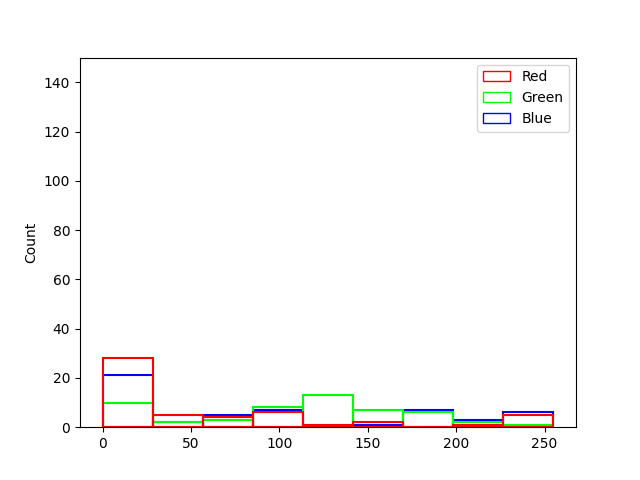
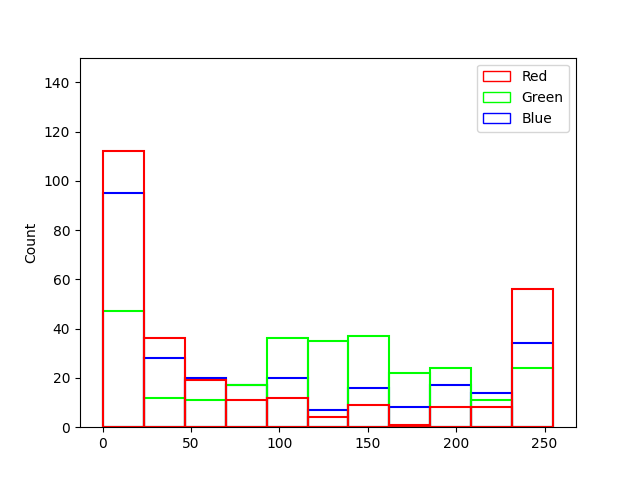
RQ4 scripts and plots

diff --git a/scripts/RQ4/colortable.py b/scripts/RQ4/colortable.py
@@ -1,0 +1,51 @@
+import plotly.graph_objects as go
+from plotly.colors import n_colors
+import numpy as nps
+import sqlite3
+import pandas as pd
+
+db = "./db/{}/crawl-data-dark-patterns.sqlite".format("the_netherlands")
+conn = sqlite3.connect(db)
+
+query_consent = "select * from dark_patterns where allow_height < 100 and allow_height != 0 and allow_text != '' and " \
+                "length(allow_text) < 30 "
+
+query_reject = "select * from dark_patterns where reject_text != '' and length(reject_text) < 30 and reject_text != " \
+               "'OK' "
+
+df_consent = pd.read_sql_query(
+    query_consent,
+    conn
+)
+
+df_reject = pd.read_sql_query(
+    query_reject,
+    conn
+)
+
+consent = []
+reject = []
+id = []
+
+for index, item in df_reject.iterrows():
+    if item.allow_exists == 1 and (item.allow_rgb != 'rgba(0, 0, 0, 0)' and item.allow_rgb != 'rgb(0, 0, 0)' and item.allow_rgb != 'rgb(255, 255, 255)' and item.reject_rgb != 'rgba(0, 0, 0, 0)' and item.reject_rgb != 'rgb(0, 0, 0)' and item.reject_rgb != 'rgb(255, 255, 255)'):
+        print("allowRGB: {} - rejectRGB: {}".format(item.allow_rgb, item.reject_rgb))
+        id.append(item.visit_id)
+        consent.append(item.allow_rgb)
+        reject.append(item.reject_rgb)
+
+fig = go.Figure(data=[go.Table(
+    header=dict(
+        values=['<b>ID</b>', '<b>Consent</b>', '<b>Reject</b>'],
+        line_color='white', fill_color='white',
+        align='center', font=dict(color='black', size=12)
+    ),
+    cells=dict(
+        values=[id, consent, reject],
+        line_color=['rgb(255,255,255)', consent, reject],
+        fill_color=['rgb(0,0,0)', consent, reject],
+        align='center', font=dict(color='black', size=11)
+    ))
+])
+
+fig.show()

diff --git a/scripts/RQ4/colormap.py b/scripts/RQ4/colormap.py
@@ -9,7 +9,10 @@ outDir = "./plots/"
 
 
 def color_map(country, reject=False):
-    db = "./db/{}/crawl-data-dp.sqlite".format(country)
+    if country == "denmark":
+        return
+
+    db = "./db/{}/crawl-data-dark-patterns.sqlite".format(country)
     conn = sqlite3.connect(db)
 
     if not reject:
@@ -52,6 +55,9 @@ def color_map(country, reject=False):
     colors = ["#FF0000", "#00FF00", "#0000FF"]
     rgb_palette = sns.set_palette(sns.color_palette(colors))
 
+    if len(r_values) == 0 and len(g_values) == 0 and len(b_values) == 0:
+        return
+
     sns.histplot(data={"Red": r_values, "Green": g_values, "Blue": b_values}, palette=rgb_palette, fill=False,
                  multiple="stack")
     plt.ylim(0, 150 if not reject else 70)
@@ -59,10 +65,4 @@ def color_map(country, reject=False):
     plt.clf()
 
 
-color_map("the_netherlands")
-color_map("belgium")
-color_map("france")
-
-color_map("the_netherlands", True)
-color_map("belgium", True)
-color_map("france", True)
+color_map("poland", True)

diff --git a/main.py b/main.py
@@ -2,6 +2,7 @@ from scripts.RQ1.cmp_usage import cmp_usage
 from scripts.RQ2.cookie_dialog import cookie_dialog
 from scripts.RQ3.bootstrap import bootstrap_sampling_amount_of_cookies_means
 from scripts.RQ3.number_of_cookies_ecdf import number_of_cookies_ecdf
+from scripts.RQ4.colormap import color_map
 
 import os
 
@@ -42,8 +43,10 @@ def run():
         if not os.path.exists('./plots/{}'.format(country)):
             os.makedirs('./plots/{}'.format(country))
 
+        print(country)
+
         # RQ1
-        cmp_usage(country)
+        # cmp_usage(country)
         # cmp_count = cmp_usage(country)
         # print("{}: {}".format(country, cmp_count))
         # cmp_count_total += cmp_count
@@ -54,6 +57,9 @@ def run():
         # RQ3
         # number_of_cookies_ecdf(country)
         # bootstrap_sampling_amount_of_cookies_means(country)
+
+        # RQ4
+        color_map(country, True)
 
     # print(str(cmp_count_total))
     # print(str(cmp_count_total / 30))

diff --git a/scripts/RQ4/width_height_scatterplot.py b/scripts/RQ4/width_height_scatterplot.py
@@ -1,0 +1,30 @@
+import pandas as pd
+import matplotlib.pyplot as plt
+import sqlite3
+
+db = "./db/{}/crawl-data-dark-patterns.sqlite".format("the_netherlands")
+conn = sqlite3.connect(db)
+
+query_consent = "select * from dark_patterns where allow_height < 100 and allow_height != 0 and allow_text != '' and " \
+                "length(allow_text) < 30 "
+
+query_reject = "select * from dark_patterns where reject_text != '' and length(reject_text) < 30 and reject_text != " \
+               "'OK' "
+
+df_consent = pd.read_sql_query(
+    query_consent,
+    conn
+)
+
+df_reject = pd.read_sql_query(
+    query_reject,
+    conn
+)
+
+fig = plt.figure()
+ax1 = fig.add_subplot(111)
+
+ax1.scatter(df_consent.allow_width, df_consent.allow_height, s=10, c='b', marker="s", label='Consent')
+ax1.scatter(df_reject.reject_width, df_reject.reject_height, s=10, c='r', marker="o", label='Reject')
+plt.legend(loc='upper right')
+plt.show()
